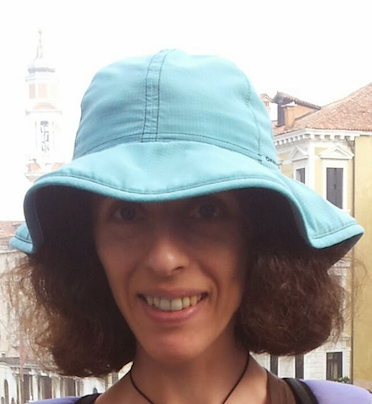
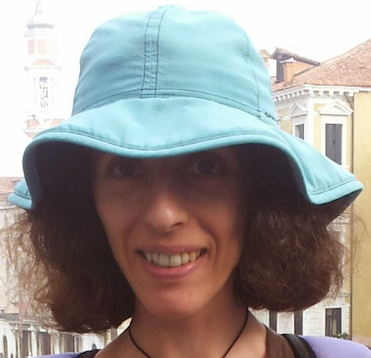
style profile pic and name alignment

diff --git a/src/components/header.module.css b/src/components/header.module.css
@@ -1,35 +1,38 @@
 .container {
-  justify-content: space-between;
+  align-items: center;
   display: flex;
+  justify-content: space-between;
 }
 
 .logo {
+  align-items: center;
   display: flex;
 }
 
 .profile-wrapper {
-  position: relative;
-  overflow: hidden;
-  border: 1px solid var(--brand-lighten-50);
+  border: 1px solid var(--brand-lighten-40);
   border-radius: 50%;
-  height: 65px;
-  width: 65px;
+  height: 70px;
+  overflow: hidden;
+  position: relative;
+  width: 70px;
 }
 
 .profile-img {
-  position: absolute;
-  top: 0px;
-  left: 0px;
-  width: 100%;
   height: 100%;
+  left: 0px;
   object-fit: cover;
   object-position: center center;
-  /* opacity: 0; */
+  position: absolute;
+  top: 0px;
+  width: 100%;
 }
 
 .title {
-  font-size: 18px;
+  color: var(--brand-darken-10);
+  font-size: 20px;
   font-weight: 600;
+  margin-left: 10px;
 }
 
 .nav-list {

diff --git a/gatsby-config.js b/gatsby-config.js
@@ -7,10 +7,6 @@ module.exports = {
     description: "The personal website of Daniela Baron, software developer.",
     image: "/images/profile.png",
     twitterUsername: "@DanielaMBaron",
-    // for temporary testing at https://danielabar.github.io/meblog/
-    // remove later when add CNAME
-    // https://www.gatsbyjs.org/docs/how-gatsby-works-with-github-pages/
-    // pathPrefix: "/meblog",
   },
   plugins: [
     "gatsby-plugin-sharp",
